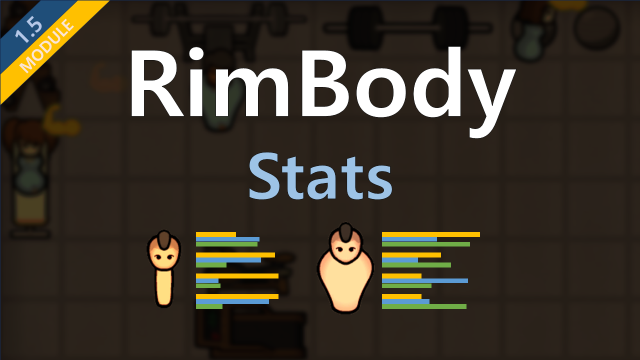
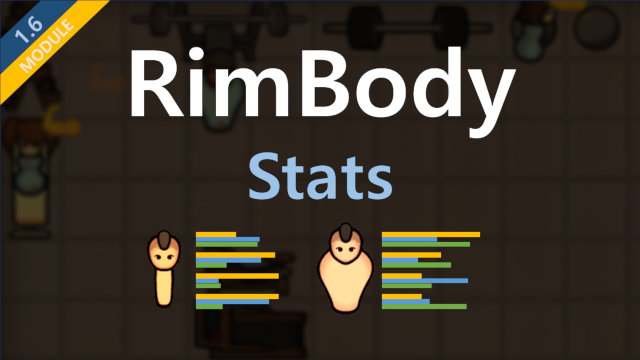
Feat: 1.6

diff --git a/Rimbody_StatModule/StatParts/RimbodyStatPart.cs b/Rimbody_StatModule/StatParts/RimbodyStatPart.cs
@@ -33,7 +33,7 @@ namespace Maux36.Rimbody_StatModule
 
         private float CorpulentMultiplier(CompPhysique compPhysique)
         {
-            return ((0.7f * (compPhysique.MuscleMass + compPhysique.BodyFat)) + 40f) / 80f;
+            return ((0.7f * (compPhysique.MuscleMass + compPhysique.BodyFat)) + 40f) * 0.0125f;
         }
     }
 
@@ -66,7 +66,7 @@ namespace Maux36.Rimbody_StatModule
 
         private float CapacityMultiplier(CompPhysique compPhysique)
         {
-            return 0.75f + (compPhysique.MuscleMass / 100f);
+            return 0.75f + (compPhysique.MuscleMass * 0.01f);
         }
     }
     public class PhysiqueMuscleStrengthPart : StatPart// M 0.85 ~ 1.15
@@ -98,7 +98,7 @@ namespace Maux36.Rimbody_StatModule
 
         private float MuscleStrengthMultiplier(CompPhysique compPhysique)
         {
-            return 1.0f + ((compPhysique.MuscleMass - 25f) * 3f / 500f);
+            return 1.0f + ((compPhysique.MuscleMass - 25f) * 0.006f);
         }
     }
     public class PhysiqueMassResistancePart : StatPart// -M 0.85 ~ 1.15
@@ -130,7 +130,7 @@ namespace Maux36.Rimbody_StatModule
 
         private float MuscleStrengthMultiplier(CompPhysique compPhysique)
         {
-            return 1f - (((2f * compPhysique.MuscleMass) + compPhysique.BodyFat - 75f) * 2f / 1000f);
+            return 1f - (((2f * compPhysique.MuscleMass) + compPhysique.BodyFat - 75f) * 0.002f);
         }
     }
 
@@ -163,7 +163,7 @@ namespace Maux36.Rimbody_StatModule
 
         private float FatHinderanceMultiplier(CompPhysique compPhysique)
         {
-            return 1.0f + ((25f-compPhysique.BodyFat)*3f/500f);
+            return 1.0f + ((25f-compPhysique.BodyFat)*0.006f);
         }
     }
 
@@ -196,7 +196,7 @@ namespace Maux36.Rimbody_StatModule
 
         private float ArrestChanceMultiplier(CompPhysique compPhysique)
         {
-            return 1f + (((2f * compPhysique.MuscleMass) + compPhysique.BodyFat - 75f) * 4f / 1000f);
+            return 1f + (((2f * compPhysique.MuscleMass) + compPhysique.BodyFat - 75f) * 0.004f);
         }
     }
     public class Physique1M1FPart : StatPart// M,F 0.8 ~ 1.2
@@ -228,7 +228,7 @@ namespace Maux36.Rimbody_StatModule
 
         private float ConsumptionMultiplier(CompPhysique compPhysique)
         {
-            return 1f + ((compPhysique.MuscleMass + compPhysique.BodyFat - 50f) * 4f / 1000f);
+            return 1f + ((compPhysique.MuscleMass + compPhysique.BodyFat - 50f) * 0.004f);
         }
     }
     public class PhysiqueTemperatureMinPart : StatPart // M,2F 6 ~ -6
@@ -260,7 +260,7 @@ namespace Maux36.Rimbody_StatModule
 
         private float TemperatureOffset(CompPhysique compPhysique)
         {
-            return -(compPhysique.MuscleMass + (2f * compPhysique.BodyFat) - 75f) * 8f / 100f;
+            return -(compPhysique.MuscleMass + (2f * compPhysique.BodyFat) - 75f) * 0.08f;
         }
     }
     public class PhysiqueTemperatureMaxPart : StatPart // M,2F 3 ~ -3
@@ -293,7 +293,7 @@ namespace Maux36.Rimbody_StatModule
 
         private float TemperatureOffset(CompPhysique compPhysique)
         {
-            return -(compPhysique.MuscleMass + (2f * compPhysique.BodyFat) - 75f) * 4f / 100f;
+            return -(compPhysique.MuscleMass + (2f * compPhysique.BodyFat) - 75f) * 0.04f;
         }
     }
 }

diff --git a/Rimbody_StatModule/HarmonyPatches/NutritionExplanation_Transpiler.cs b/Rimbody_StatModule/HarmonyPatches/NutritionExplanation_Transpiler.cs
@@ -1,0 +1,53 @@
+using HarmonyLib;
+using System.Collections.Generic;
+using System.Reflection.Emit;
+using System.Text;
+using Maux36.Rimbody;
+using Verse;
+
+namespace Rimbody_StatModule
+{
+    [HarmonyPatch(typeof(RaceProperties), "NutritionEatenPerDayExplanation")]
+    public static class NutritionExplanation_Transpiler
+    {
+        static IEnumerable<CodeInstruction> Transpiler(IEnumerable<CodeInstruction> instructions)
+        {
+            List<CodeInstruction> codes = new List<CodeInstruction>(instructions);
+            int insertionIndex = -1;
+            for (int i = 0; i < codes.Count; i++)
+            {
+                if (codes[i].opcode == OpCodes.Ldstr && codes[i].operand.ToString() == "StatsReport_FinalValue")
+                {
+                    insertionIndex = i;
+                    break;
+                }
+            }
+
+            if (insertionIndex != -1)
+            {
+                codes.Insert(insertionIndex++, new CodeInstruction(OpCodes.Ldloc_0));
+                codes.Insert(insertionIndex++, new CodeInstruction(OpCodes.Ldarg_0));
+                codes.Insert(insertionIndex++, CodeInstruction.Call(typeof(NutritionExplanationUtil), nameof(NutritionExplanationUtil.Stringmaker), new[] { typeof(StringBuilder), typeof(Pawn) }));
+            }
+            else
+            {
+                Log.Error("RimWorld C# Modding: Harmony Transpiler could not find target instruction in NutritionEatenPerDayExplanation.");
+            }
+
+            return codes;
+        }
+    }
+
+    public static class NutritionExplanationUtil
+    {
+        public static void Stringmaker(StringBuilder sb, Pawn p)
+        {
+            var compPhysique = p.compPhysique();
+            if (compPhysique != null && compPhysique.MuscleMass >= 0 && compPhysique.BodyFat >= 0)
+            {
+                sb.AppendLine("Body Composition: x " + (1f + ((compPhysique.MuscleMass + compPhysique.BodyFat - 50f) * 0.004f)).ToStringPercent());
+                 sb.AppendLine();
+            }
+        }
+    }
+}

diff --git a/Rimbody_StatModule/HarmonyPatches/StatHarmonyPatches.cs b/Rimbody_StatModule/HarmonyPatches/StatHarmonyPatches.cs
@@ -41,4 +41,17 @@ namespace Rimbody_StatModule
             return true;
         }
     }
+
+    [HarmonyPatch(typeof(Need_Food), "FoodFallPerTickAssumingCategory")]
+    static class BaseHungerRatePatch
+    {
+        static void Postfix(ref float __result, Pawn ___pawn)
+        {
+            var compPhysique = ___pawn.compPhysique();
+            if (compPhysique?.MuscleMass >= 0 && compPhysique.BodyFat >= 0)
+            {
+                __result = __result * (1f + ((compPhysique.MuscleMass + compPhysique.BodyFat - 50f) * 0.004f));
+            }
+        }
+    }
 }

diff --git a/Rimbody_StatModule/StatWorker_Mass.cs b/Rimbody_StatModule/StatWorker_Mass.cs
@@ -1,11 +1,7 @@
 using Maux36.Rimbody;
 using RimWorld;
 using UnityEngine;
-using System;
-using System.Collections.Generic;
-using System.Linq;
 using System.Text;
-using System.Threading.Tasks;
 using Verse;
 
 namespace Rimbody_StatModule
